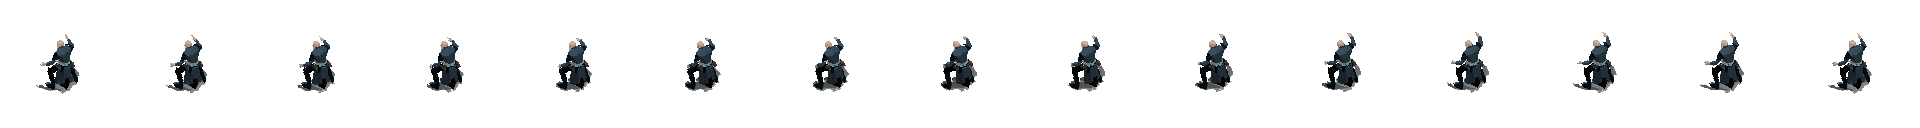
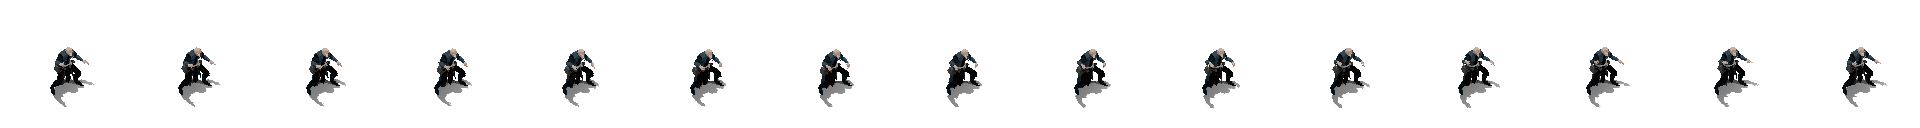
Fix left/right swapped on all 4 new characters + Mage cache staleness
Left/right were swapped: the extraction script for DeathKnight/Ranger/
Mage/Warlock reused row0=Left, row4=Right, which was the *first*
(wrong) mapping from the Lev investigation earlier this session — not
the corrected one (row4=Left, row0=Right) that Lev actually shipped
with. Verified via full 15-frame run-cycle contact sheets per
character before re-extracting: row0 leans/runs right, row4 leans/runs
left, consistently across all four.

Also version-tagged (?v=2) every new character's image URLs in
js/sprites.js. images/Mage/ specifically reused the old (now-deleted)
Mage character's filenames — browsers/Telegram's WebView cache images
by URL, so any client that had already loaded a Mage character before
today's roster swap would keep rendering the previous class's sprites
under the same paths no matter what the server now serves (the same
failure mode already hit and fixed for Lev). DeathKnight/Ranger/Warlock
never existed before this session so they had no stale cache to
inherit, but their content just changed a second time (this fix) so
they get the same treatment to be safe.

diff --git a/js/sprites.js b/js/sprites.js
@@ -2,73 +2,73 @@ const SPRITE_DEF = {
   deathknight: {
     frameW: 128, frameH: 128,
     anims: {
-      'front-idle':   { src:'images/DeathKnight/Front - Idle.png',      cols:15, rows:1, n:15, fps:7,  loop:true  },
-      'back-idle':    { src:'images/DeathKnight/Back - Idle.png',        cols:15, rows:1, n:15, fps:7,  loop:true  },
-      'left-idle':    { src:'images/DeathKnight/Left - Idle.png',        cols:15, rows:1, n:15, fps:7,  loop:true  },
-      'right-idle':   { src:'images/DeathKnight/Right - Idle.png',       cols:15, rows:1, n:15, fps:7,  loop:true  },
-      'front-run':    { src:'images/DeathKnight/Front - Running.png',    cols:15, rows:1, n:15, fps:15, loop:true  },
-      'back-run':     { src:'images/DeathKnight/Back - Running.png',     cols:15, rows:1, n:15, fps:15, loop:true  },
-      'left-run':     { src:'images/DeathKnight/Left - Running.png',     cols:15, rows:1, n:15, fps:15, loop:true  },
-      'right-run':    { src:'images/DeathKnight/Right - Running.png',    cols:15, rows:1, n:15, fps:15, loop:true  },
-      'front-attack': { src:'images/DeathKnight/Front - Attacking.png',  cols:15, rows:1, n:15, fps:14, loop:false },
-      'back-attack':  { src:'images/DeathKnight/Back - Attacking.png',   cols:15, rows:1, n:15, fps:14, loop:false },
-      'left-attack':  { src:'images/DeathKnight/Left - Attacking.png',   cols:15, rows:1, n:15, fps:14, loop:false },
-      'right-attack': { src:'images/DeathKnight/Right - Attacking.png',  cols:15, rows:1, n:15, fps:14, loop:false },
-      'die':          { src:'images/DeathKnight/Dying.png',              cols:15, rows:1, n:15, fps:12, loop:false },
+      'front-idle':   { src:'images/DeathKnight/Front - Idle.png?v=2',      cols:15, rows:1, n:15, fps:7,  loop:true  },
+      'back-idle':    { src:'images/DeathKnight/Back - Idle.png?v=2',        cols:15, rows:1, n:15, fps:7,  loop:true  },
+      'left-idle':    { src:'images/DeathKnight/Left - Idle.png?v=2',        cols:15, rows:1, n:15, fps:7,  loop:true  },
+      'right-idle':   { src:'images/DeathKnight/Right - Idle.png?v=2',       cols:15, rows:1, n:15, fps:7,  loop:true  },
+      'front-run':    { src:'images/DeathKnight/Front - Running.png?v=2',    cols:15, rows:1, n:15, fps:15, loop:true  },
+      'back-run':     { src:'images/DeathKnight/Back - Running.png?v=2',     cols:15, rows:1, n:15, fps:15, loop:true  },
+      'left-run':     { src:'images/DeathKnight/Left - Running.png?v=2',     cols:15, rows:1, n:15, fps:15, loop:true  },
+      'right-run':    { src:'images/DeathKnight/Right - Running.png?v=2',    cols:15, rows:1, n:15, fps:15, loop:true  },
+      'front-attack': { src:'images/DeathKnight/Front - Attacking.png?v=2',  cols:15, rows:1, n:15, fps:14, loop:false },
+      'back-attack':  { src:'images/DeathKnight/Back - Attacking.png?v=2',   cols:15, rows:1, n:15, fps:14, loop:false },
+      'left-attack':  { src:'images/DeathKnight/Left - Attacking.png?v=2',   cols:15, rows:1, n:15, fps:14, loop:false },
+      'right-attack': { src:'images/DeathKnight/Right - Attacking.png?v=2',  cols:15, rows:1, n:15, fps:14, loop:false },
+      'die':          { src:'images/DeathKnight/Dying.png?v=2',              cols:15, rows:1, n:15, fps:12, loop:false },
     }
   },
   ranger: {
     frameW: 128, frameH: 128,
     anims: {
-      'front-idle':   { src:'images/Ranger/Front - Idle.png',      cols:15, rows:1, n:15, fps:7,  loop:true  },
-      'back-idle':    { src:'images/Ranger/Back - Idle.png',        cols:15, rows:1, n:15, fps:7,  loop:true  },
-      'left-idle':    { src:'images/Ranger/Left - Idle.png',        cols:15, rows:1, n:15, fps:7,  loop:true  },
-      'right-idle':   { src:'images/Ranger/Right - Idle.png',       cols:15, rows:1, n:15, fps:7,  loop:true  },
-      'front-run':    { src:'images/Ranger/Front - Running.png',    cols:15, rows:1, n:15, fps:15, loop:true  },
-      'back-run':     { src:'images/Ranger/Back - Running.png',     cols:15, rows:1, n:15, fps:15, loop:true  },
-      'left-run':     { src:'images/Ranger/Left - Running.png',     cols:15, rows:1, n:15, fps:15, loop:true  },
-      'right-run':    { src:'images/Ranger/Right - Running.png',    cols:15, rows:1, n:15, fps:15, loop:true  },
-      'front-attack': { src:'images/Ranger/Front - Attacking.png',  cols:15, rows:1, n:15, fps:14, loop:false },
-      'back-attack':  { src:'images/Ranger/Back - Attacking.png',   cols:15, rows:1, n:15, fps:14, loop:false },
-      'left-attack':  { src:'images/Ranger/Left - Attacking.png',   cols:15, rows:1, n:15, fps:14, loop:false },
-      'right-attack': { src:'images/Ranger/Right - Attacking.png',  cols:15, rows:1, n:15, fps:14, loop:false },
-      'die':          { src:'images/Ranger/Dying.png',              cols:15, rows:1, n:15, fps:12, loop:false },
+      'front-idle':   { src:'images/Ranger/Front - Idle.png?v=2',      cols:15, rows:1, n:15, fps:7,  loop:true  },
+      'back-idle':    { src:'images/Ranger/Back - Idle.png?v=2',        cols:15, rows:1, n:15, fps:7,  loop:true  },
+      'left-idle':    { src:'images/Ranger/Left - Idle.png?v=2',        cols:15, rows:1, n:15, fps:7,  loop:true  },
+      'right-idle':   { src:'images/Ranger/Right - Idle.png?v=2',       cols:15, rows:1, n:15, fps:7,  loop:true  },
+      'front-run':    { src:'images/Ranger/Front - Running.png?v=2',    cols:15, rows:1, n:15, fps:15, loop:true  },
+      'back-run':     { src:'images/Ranger/Back - Running.png?v=2',     cols:15, rows:1, n:15, fps:15, loop:true  },
+      'left-run':     { src:'images/Ranger/Left - Running.png?v=2',     cols:15, rows:1, n:15, fps:15, loop:true  },
+      'right-run':    { src:'images/Ranger/Right - Running.png?v=2',    cols:15, rows:1, n:15, fps:15, loop:true  },
+      'front-attack': { src:'images/Ranger/Front - Attacking.png?v=2',  cols:15, rows:1, n:15, fps:14, loop:false },
+      'back-attack':  { src:'images/Ranger/Back - Attacking.png?v=2',   cols:15, rows:1, n:15, fps:14, loop:false },
+      'left-attack':  { src:'images/Ranger/Left - Attacking.png?v=2',   cols:15, rows:1, n:15, fps:14, loop:false },
+      'right-attack': { src:'images/Ranger/Right - Attacking.png?v=2',  cols:15, rows:1, n:15, fps:14, loop:false },
+      'die':          { src:'images/Ranger/Dying.png?v=2',              cols:15, rows:1, n:15, fps:12, loop:false },
     }
   },
   mage: {
     frameW: 128, frameH: 128,
     anims: {
-      'front-idle':   { src:'images/Mage/Front - Idle.png',      cols:15, rows:1, n:15, fps:7,  loop:true  },
-      'back-idle':    { src:'images/Mage/Back - Idle.png',        cols:15, rows:1, n:15, fps:7,  loop:true  },
-      'left-idle':    { src:'images/Mage/Left - Idle.png',        cols:15, rows:1, n:15, fps:7,  loop:true  },
-      'right-idle':   { src:'images/Mage/Right - Idle.png',       cols:15, rows:1, n:15, fps:7,  loop:true  },
-      'front-run':    { src:'images/Mage/Front - Running.png',    cols:15, rows:1, n:15, fps:15, loop:true  },
-      'back-run':     { src:'images/Mage/Back - Running.png',     cols:15, rows:1, n:15, fps:15, loop:true  },
-      'left-run':     { src:'images/Mage/Left - Running.png',     cols:15, rows:1, n:15, fps:15, loop:true  },
-      'right-run':    { src:'images/Mage/Right - Running.png',    cols:15, rows:1, n:15, fps:15, loop:true  },
-      'front-attack': { src:'images/Mage/Front - Attacking.png',  cols:15, rows:1, n:15, fps:14, loop:false },
-      'back-attack':  { src:'images/Mage/Back - Attacking.png',   cols:15, rows:1, n:15, fps:14, loop:false },
-      'left-attack':  { src:'images/Mage/Left - Attacking.png',   cols:15, rows:1, n:15, fps:14, loop:false },
-      'right-attack': { src:'images/Mage/Right - Attacking.png',  cols:15, rows:1, n:15, fps:14, loop:false },
-      'die':          { src:'images/Mage/Dying.png',              cols:15, rows:1, n:15, fps:12, loop:false },
+      'front-idle':   { src:'images/Mage/Front - Idle.png?v=2',      cols:15, rows:1, n:15, fps:7,  loop:true  },
+      'back-idle':    { src:'images/Mage/Back - Idle.png?v=2',        cols:15, rows:1, n:15, fps:7,  loop:true  },
+      'left-idle':    { src:'images/Mage/Left - Idle.png?v=2',        cols:15, rows:1, n:15, fps:7,  loop:true  },
+      'right-idle':   { src:'images/Mage/Right - Idle.png?v=2',       cols:15, rows:1, n:15, fps:7,  loop:true  },
+      'front-run':    { src:'images/Mage/Front - Running.png?v=2',    cols:15, rows:1, n:15, fps:15, loop:true  },
+      'back-run':     { src:'images/Mage/Back - Running.png?v=2',     cols:15, rows:1, n:15, fps:15, loop:true  },
+      'left-run':     { src:'images/Mage/Left - Running.png?v=2',     cols:15, rows:1, n:15, fps:15, loop:true  },
+      'right-run':    { src:'images/Mage/Right - Running.png?v=2',    cols:15, rows:1, n:15, fps:15, loop:true  },
+      'front-attack': { src:'images/Mage/Front - Attacking.png?v=2',  cols:15, rows:1, n:15, fps:14, loop:false },
+      'back-attack':  { src:'images/Mage/Back - Attacking.png?v=2',   cols:15, rows:1, n:15, fps:14, loop:false },
+      'left-attack':  { src:'images/Mage/Left - Attacking.png?v=2',   cols:15, rows:1, n:15, fps:14, loop:false },
+      'right-attack': { src:'images/Mage/Right - Attacking.png?v=2',  cols:15, rows:1, n:15, fps:14, loop:false },
+      'die':          { src:'images/Mage/Dying.png?v=2',              cols:15, rows:1, n:15, fps:12, loop:false },
     }
   },
   warlock: {
     frameW: 128, frameH: 128,
     anims: {
-      'front-idle':   { src:'images/Warlock/Front - Idle.png',      cols:15, rows:1, n:15, fps:7,  loop:true  },
-      'back-idle':    { src:'images/Warlock/Back - Idle.png',        cols:15, rows:1, n:15, fps:7,  loop:true  },
-      'left-idle':    { src:'images/Warlock/Left - Idle.png',        cols:15, rows:1, n:15, fps:7,  loop:true  },
-      'right-idle':   { src:'images/Warlock/Right - Idle.png',       cols:15, rows:1, n:15, fps:7,  loop:true  },
-      'front-run':    { src:'images/Warlock/Front - Running.png',    cols:15, rows:1, n:15, fps:15, loop:true  },
-      'back-run':     { src:'images/Warlock/Back - Running.png',     cols:15, rows:1, n:15, fps:15, loop:true  },
-      'left-run':     { src:'images/Warlock/Left - Running.png',     cols:15, rows:1, n:15, fps:15, loop:true  },
-      'right-run':    { src:'images/Warlock/Right - Running.png',    cols:15, rows:1, n:15, fps:15, loop:true  },
-      'front-attack': { src:'images/Warlock/Front - Attacking.png',  cols:15, rows:1, n:15, fps:14, loop:false },
-      'back-attack':  { src:'images/Warlock/Back - Attacking.png',   cols:15, rows:1, n:15, fps:14, loop:false },
-      'left-attack':  { src:'images/Warlock/Left - Attacking.png',   cols:15, rows:1, n:15, fps:14, loop:false },
-      'right-attack': { src:'images/Warlock/Right - Attacking.png',  cols:15, rows:1, n:15, fps:14, loop:false },
-      'die':          { src:'images/Warlock/Dying.png',              cols:15, rows:1, n:15, fps:12, loop:false },
+      'front-idle':   { src:'images/Warlock/Front - Idle.png?v=2',      cols:15, rows:1, n:15, fps:7,  loop:true  },
+      'back-idle':    { src:'images/Warlock/Back - Idle.png?v=2',        cols:15, rows:1, n:15, fps:7,  loop:true  },
+      'left-idle':    { src:'images/Warlock/Left - Idle.png?v=2',        cols:15, rows:1, n:15, fps:7,  loop:true  },
+      'right-idle':   { src:'images/Warlock/Right - Idle.png?v=2',       cols:15, rows:1, n:15, fps:7,  loop:true  },
+      'front-run':    { src:'images/Warlock/Front - Running.png?v=2',    cols:15, rows:1, n:15, fps:15, loop:true  },
+      'back-run':     { src:'images/Warlock/Back - Running.png?v=2',     cols:15, rows:1, n:15, fps:15, loop:true  },
+      'left-run':     { src:'images/Warlock/Left - Running.png?v=2',     cols:15, rows:1, n:15, fps:15, loop:true  },
+      'right-run':    { src:'images/Warlock/Right - Running.png?v=2',    cols:15, rows:1, n:15, fps:15, loop:true  },
+      'front-attack': { src:'images/Warlock/Front - Attacking.png?v=2',  cols:15, rows:1, n:15, fps:14, loop:false },
+      'back-attack':  { src:'images/Warlock/Back - Attacking.png?v=2',   cols:15, rows:1, n:15, fps:14, loop:false },
+      'left-attack':  { src:'images/Warlock/Left - Attacking.png?v=2',   cols:15, rows:1, n:15, fps:14, loop:false },
+      'right-attack': { src:'images/Warlock/Right - Attacking.png?v=2',  cols:15, rows:1, n:15, fps:14, loop:false },
+      'die':          { src:'images/Warlock/Dying.png?v=2',              cols:15, rows:1, n:15, fps:12, loop:false },
     }
   },
   lev: {
